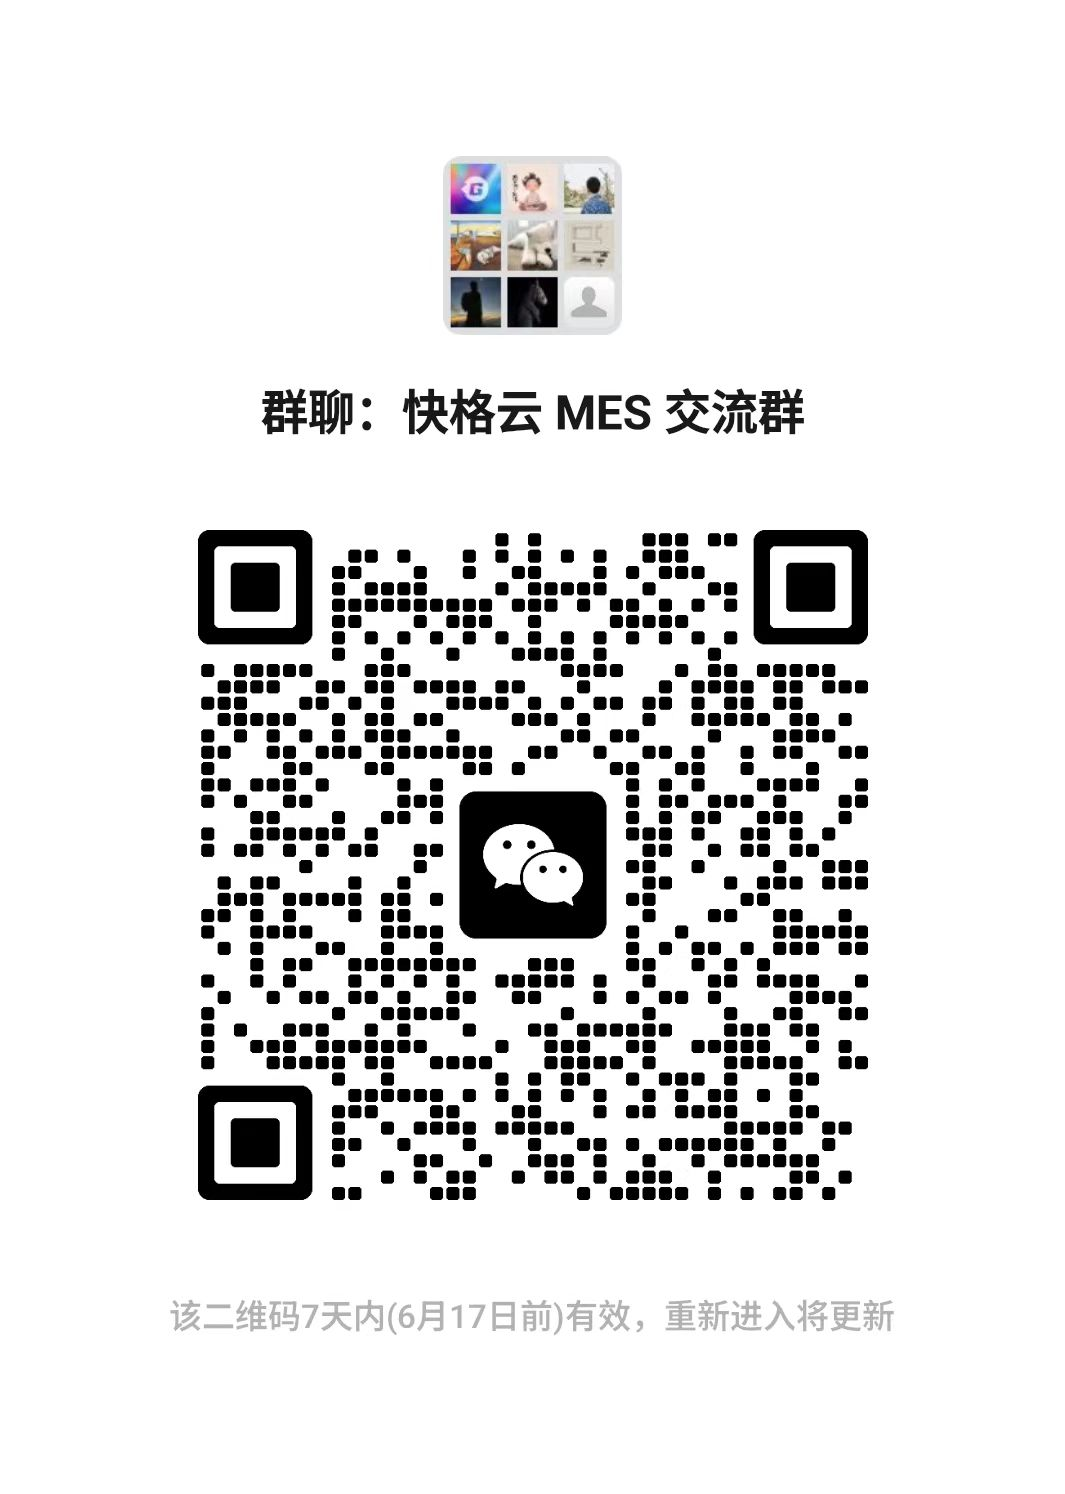
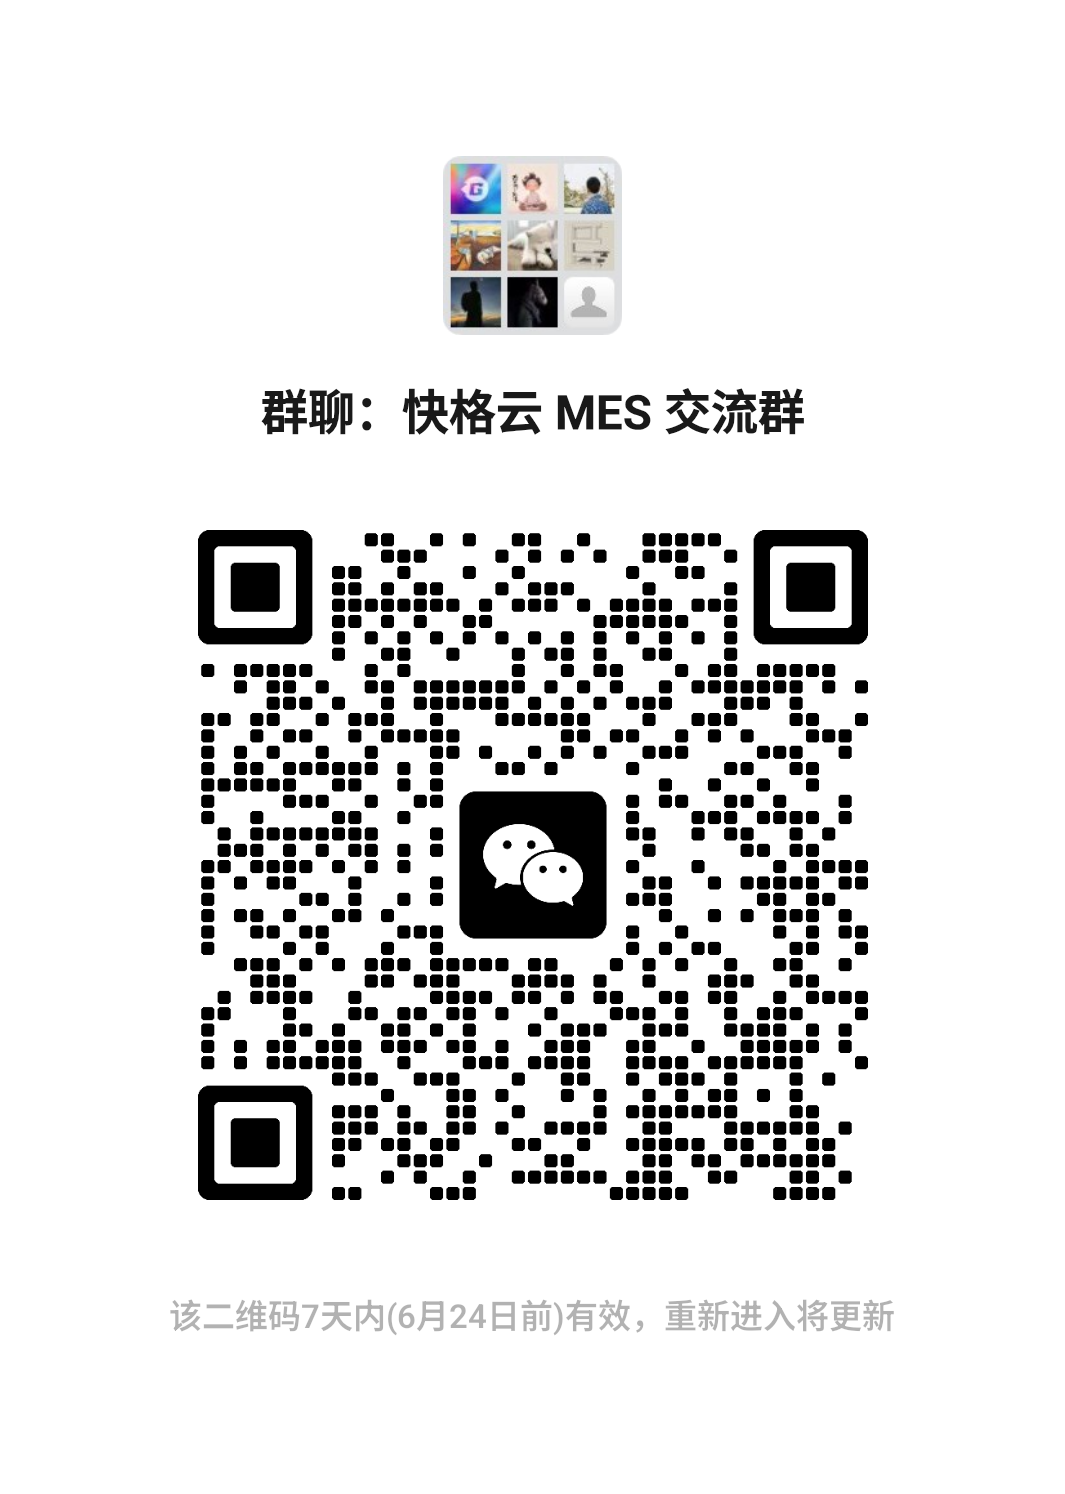
fix(frontend): 修复登出后全屏转圈无法直达登录页，并更新微信群截图与构建产物
登出时保持 languageInitialized 避免 AppShellLoading 阻塞；登录/切账户时再重置语言初始化。

diff --git a/riveredge-frontend/src/config/i18n.ts b/riveredge-frontend/src/config/i18n.ts
@@ -311,13 +311,19 @@ export async function applyLanguageWithPersist(languageCode: string): Promise<vo
   await useUserPreferenceStore.getState().updatePreferences({ language: languageCode });
 }
 
-export function clearLanguageForLogout(): void {
+/** 登录或切换账户前调用，强制重新拉取租户/个人语言偏好 */
+export function resetLanguageInitState(): void {
   languageInitialized = false;
+  languageLoading = false;
+}
+
+export function clearLanguageForLogout(): void {
   languageLoading = false;
   siteLanguageSettings = null;
   tenantDefaultLanguage = null;
   const lang = resolveTenantDefaultFromCache() ?? FALLBACK_LANGUAGE;
   void i18n.changeLanguage(lang);
+  // 保持 languageInitialized，避免登出时 App 壳层全屏 Spin 阻塞跳转登录页（与 themeStore.clearForLogout 一致）
 }
 
 /** @deprecated 请使用 initLanguageFromApi */

diff --git a/riveredge-frontend/src/hooks/useAppShellReady.ts b/riveredge-frontend/src/hooks/useAppShellReady.ts
@@ -1,5 +1,5 @@
 import { useEffect, useRef, useState } from 'react';
-import { initLanguageFromApi, isLanguageInitialized } from '../config/i18n';
+import { initLanguageFromApi, isLanguageInitialized, resetLanguageInitState } from '../config/i18n';
 import { useGlobalStore } from '../stores/globalStore';
 import { useThemeStore } from '../stores/themeStore';
 import { useUserPreferenceStore } from '../stores/userPreferenceStore';
@@ -30,6 +30,7 @@ export function useAppShellReady(): boolean {
       // 登录或切换账户：强制重新拉取主题/偏好，避免沿用上一会话
       if (currentUserId != null && prevUserId !== currentUserId) {
         useThemeStore.setState({ initialized: false, siteThemeSettings: null });
+        resetLanguageInitState();
       }
 
       useUserPreferenceStore.getState().rehydrateFromStorage();
